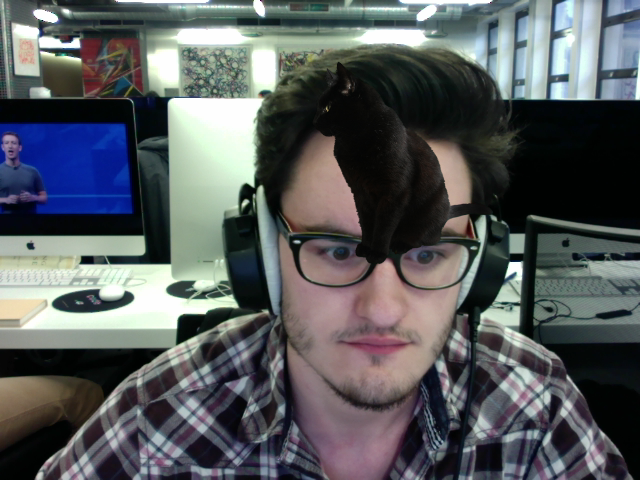
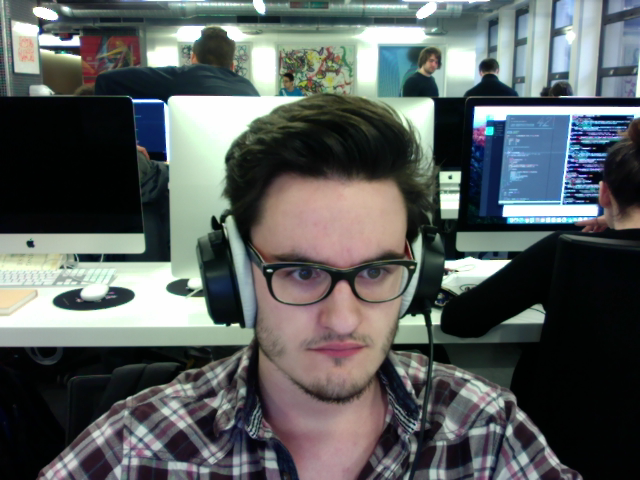
debut select filter

diff --git a/js/webcam.js b/js/webcam.js
@@ -32,11 +32,15 @@ window.addEventListener("DOMContentLoaded", function() {
 	document.getElementById("snapbut").addEventListener("click", function() {
 		context.drawImage(video, 0, 0, 640, 480);
 	});
-
-	document.getElementById("savebut").addEventListener("click", function() {
-		var filterok = document.getElementById("filterid").selectedIndex;
-		var donn = document.getElementsByTagName("option")[filterok].value;
-		post('snap.php', {img: canvas.toDataURL("image/png"), sub: 'save', filterpost: donn});});
+	
+	var okok = document.getElementById("filterid").selectedIndex;
+	var ok = document.getElementsByTagName("option")[okok].value;
+	if (ok.length > 0) {
+		document.getElementById("savebut").addEventListener("click", function() {
+			var filterok = document.getElementById("filterid").selectedIndex;
+			var donn = document.getElementsByTagName("option")[filterok].value;
+			post('snap.php', {img: canvas.toDataURL("image/png"), sub: 'save', filterpost: donn});});
+		}
 	}, false);
 
 

diff --git a/snap.php b/snap.php
@@ -10,6 +10,7 @@ if ($_SESSION['login']) {?>
 			<div id="snap_win" class="snap_win">
 				<div id="select-filter">
 					<select id="filterid">
+						<option value=""></option>
 						<option value="face.png">Face</option>
 						<option value="cat.png">Cat</option>
 						<option value="42.png">42 Logo</option>
